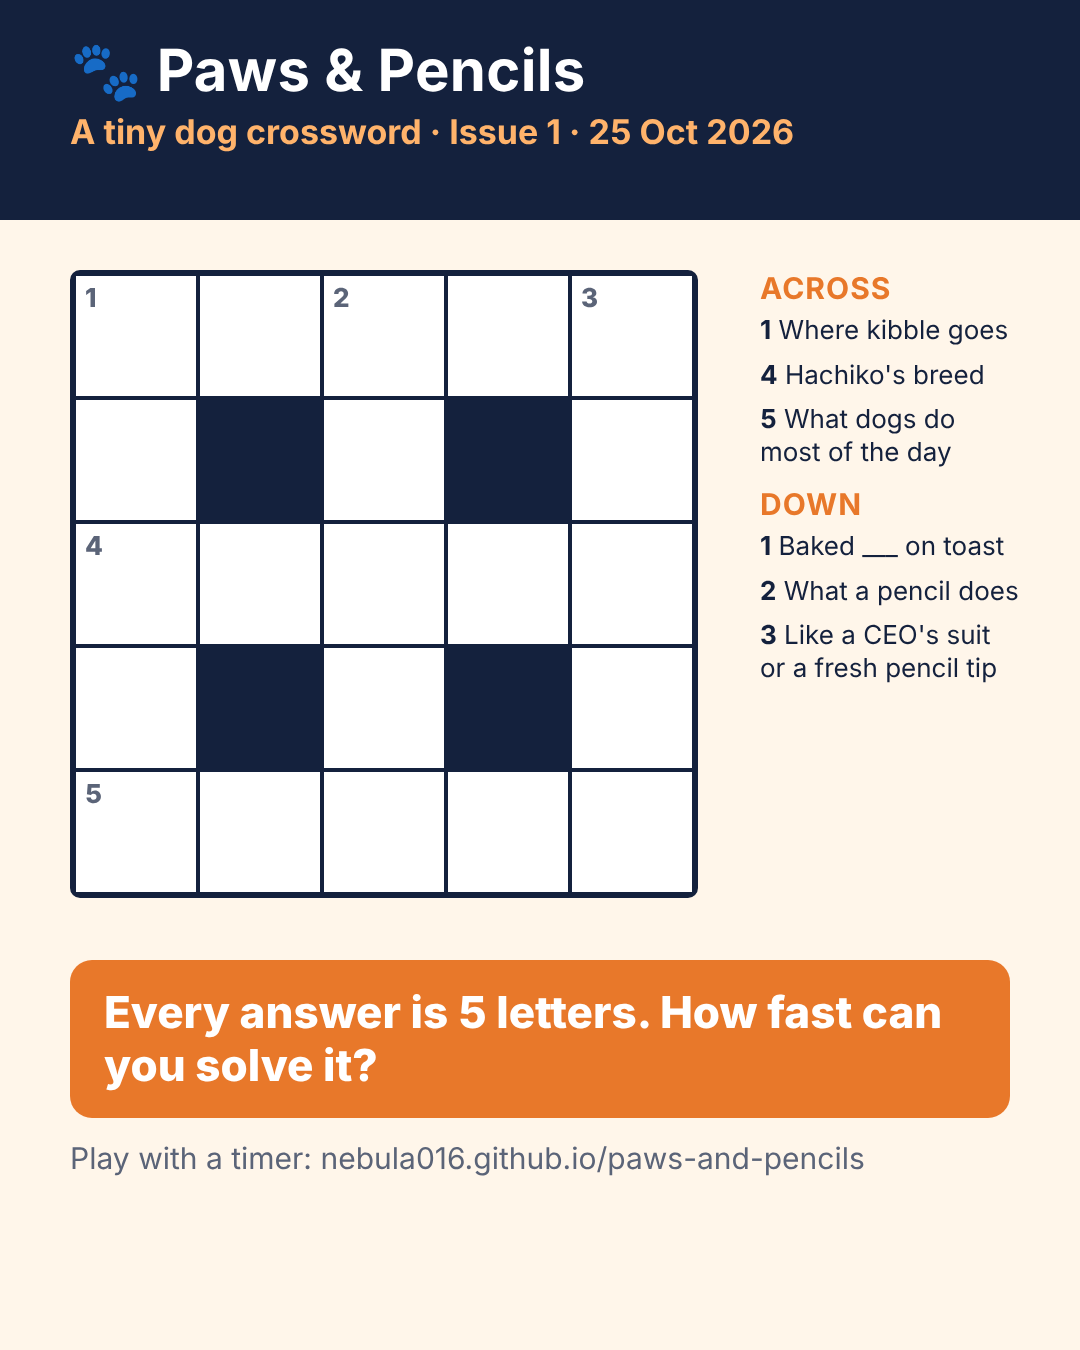
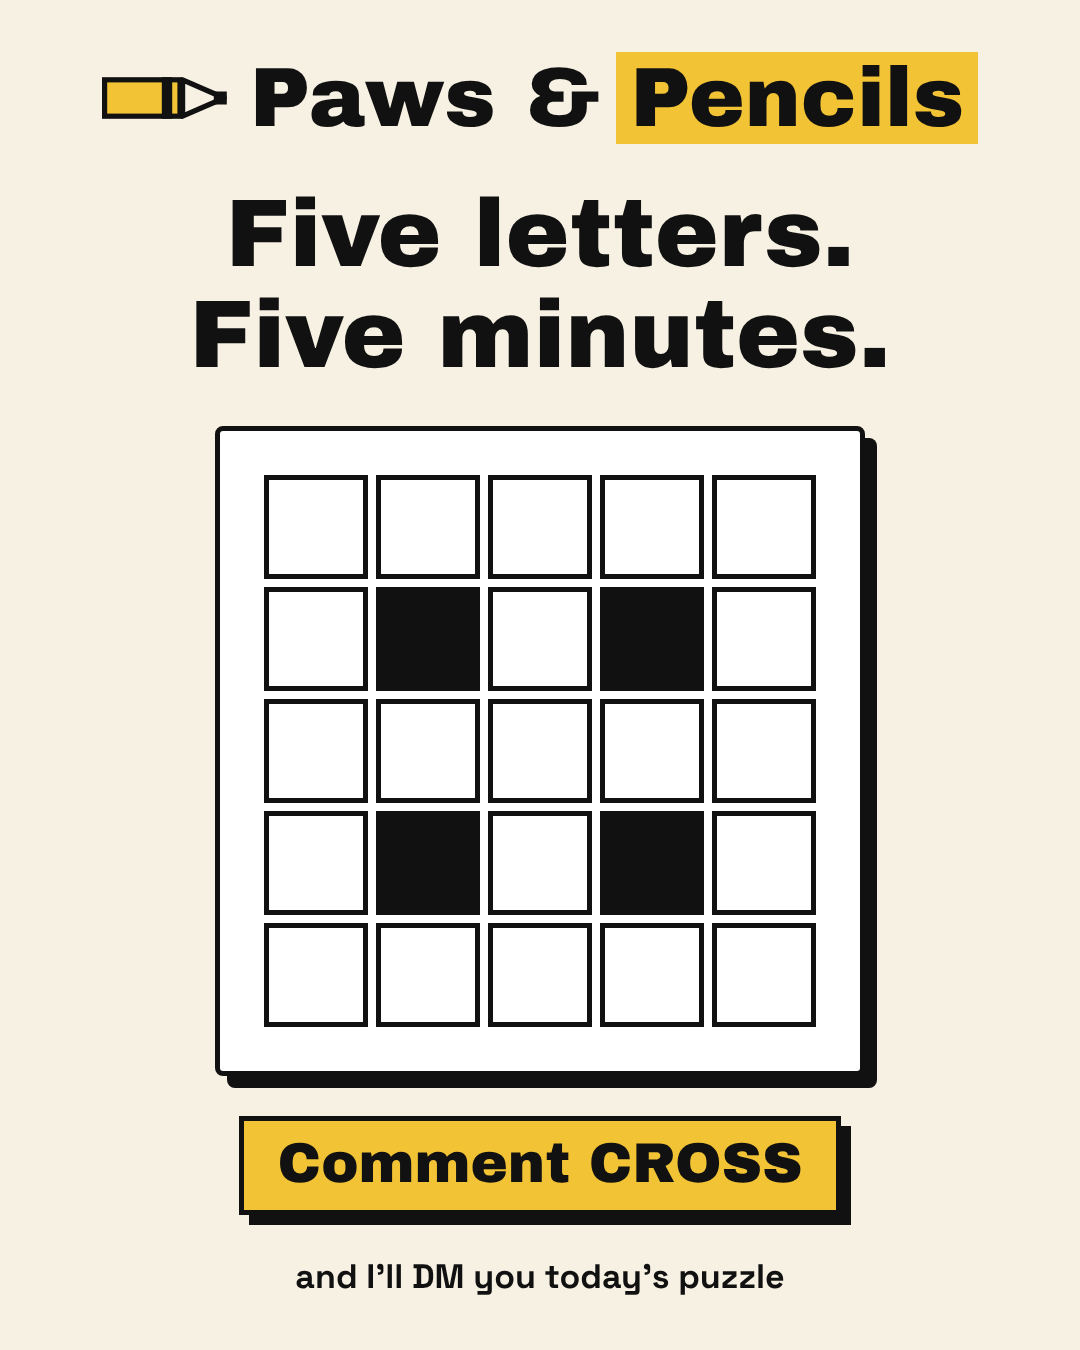
Restyle Paws & Pencils to Figma ink/paper design; new poster; bundled fonts
Claude-Session: https://claude.ai/code/session_015Txmd2HD2Qjn5wNoySTYA5

diff --git a/index.html b/index.html
@@ -9,82 +9,70 @@
 <meta property="og:description" content="A tiny dog-themed crossword. Six clues. How fast can you solve it?">
 <meta property="og:image" content="https://nebula016.github.io/paws-and-pencils/poster.png">
 <meta property="og:type" content="website">
-<meta name="theme-color" content="#14213d">
+<meta name="theme-color" content="#f7f1e3">
 <style>
+@font-face{font-family:AB;src:url(fonts/archivo-black.woff2) format("woff2");font-display:swap}
+@font-face{font-family:SG;font-weight:700;src:url(fonts/space-grotesk-700.woff2) format("woff2");font-display:swap}
+@font-face{font-family:PH;src:url(fonts/patrick-hand.woff2) format("woff2");font-display:swap}
 :root{
-  --bg:#fff6ea; --ink:#14213d; --muted:#5b6478; --accent:#e8782a; --accent-d:#c75f17;
-  --cell:#ffffff; --block:#14213d; --hl:#ffd9a8; --sel:#ffb36b; --bad:#f6c1bd; --ok:#bfe8c9;
-  --line:#14213d;
+  --bg:#f7f1e3; --ink:#111; --muted:#4a4740; --accent:#f2c335; --cell:#fff; --block:#111;
+  --hl:#fbe7a1; --sel:#f2c335; --bad:#f2b8b5; --ok:#bfe8c9; --line:#111;
+  --hard:4px 4px 0 #111; --hard-lg:8px 8px 0 #111;
 }
 *{box-sizing:border-box;-webkit-tap-highlight-color:transparent}
 html,body{margin:0;height:100%}
-body{
-  background:var(--bg);color:var(--ink);
-  font-family:ui-rounded,"SF Pro Rounded",system-ui,-apple-system,"Segoe UI",Roboto,sans-serif;
-  color-scheme:light; overflow-x:hidden;
-}
-.app{
-  min-height:100dvh;display:flex;flex-direction:column;align-items:center;
-  padding:max(8px,env(safe-area-inset-top)) 16px max(8px,env(safe-area-inset-bottom));
-  max-width:520px;margin:0 auto;gap:8px;
-}
+body{background:var(--bg);color:var(--ink);font-family:SG,system-ui,-apple-system,"Segoe UI",Roboto,sans-serif;font-weight:700;color-scheme:light;overflow-x:hidden}
+.app{min-height:100dvh;display:flex;flex-direction:column;align-items:center;padding:max(8px,env(safe-area-inset-top)) 16px max(8px,env(safe-area-inset-bottom));max-width:520px;margin:0 auto;gap:8px}
 header{width:100%;display:flex;align-items:center;justify-content:space-between;gap:8px}
 .brand{line-height:1.1}
-.brand b{display:block;font-size:22px;letter-spacing:.2px}
-.brand span{font-size:16px;color:var(--muted)}
-.timer{font-variant-numeric:tabular-nums;font-size:22px;font-weight:700;background:var(--ink);color:#fff;
-  border-radius:999px;padding:6px 14px;min-width:78px;text-align:center}
+.brand b{display:flex;align-items:center;gap:8px;font:20px AB;letter-spacing:0}
+.brand b svg{flex:none}
+.brand b .hi{background:var(--accent);padding:0 6px}
+.brand span{display:block;font-size:16px;color:var(--muted);margin-top:2px}
+.timer{font:20px AB;font-variant-numeric:tabular-nums;background:var(--accent);color:var(--ink);border:3px solid var(--ink);border-radius:4px;box-shadow:var(--hard);padding:4px 12px;min-width:78px;text-align:center}
 .board-wrap{width:100%;display:flex;justify-content:center}
-#board{
-  --s:min(calc((100vw - 32px)/5),88px,calc((100dvh - 375px)/5));
-  display:grid;grid-template-columns:repeat(5,var(--s));grid-template-rows:repeat(5,var(--s));
-  border:3px solid var(--line);background:var(--line);gap:2px;border-radius:6px;overflow:hidden;
-}
-.cell{position:relative;background:var(--cell);display:flex;align-items:center;justify-content:center;
-  font-size:calc(var(--s)*.52);font-weight:800;cursor:pointer;user-select:none;-webkit-user-select:none;text-transform:uppercase}
+#board{--s:min(calc((100vw - 44px)/5),88px,calc((100dvh - 395px)/5));display:grid;grid-template-columns:repeat(5,var(--s));grid-template-rows:repeat(5,var(--s));gap:6px;padding:0}
+.cell{position:relative;background:var(--cell);border:3px solid var(--line);border-radius:3px;display:flex;align-items:center;justify-content:center;font:calc(var(--s)*.62)/1 PH;cursor:pointer;user-select:none;-webkit-user-select:none;text-transform:uppercase}
 .cell.block{background:var(--block);cursor:default}
 .cell.hl{background:var(--hl)}
-.cell.sel{background:var(--sel)}
+.cell.sel{background:var(--sel);box-shadow:var(--hard)}
 .cell.bad{background:var(--bad)}
 .cell.ok{background:var(--ok)}
-.cell .n{position:absolute;top:3px;left:5px;font-size:max(12px,calc(var(--s)*.2));font-weight:700;color:var(--muted)}
-.cell:focus-visible{outline:3px solid var(--accent);outline-offset:-3px}
-.clue{
-  width:100%;display:flex;align-items:center;gap:8px;background:#fff;border:2px solid var(--ink);
-  border-radius:12px;padding:5px;min-height:60px;
-}
-.clue button{flex:0 0 44px;height:44px;border:0;border-radius:10px;background:var(--ink);color:#fff;font-size:22px;cursor:pointer}
-.clue p{margin:0;flex:1;font-size:18px;line-height:1.25;text-align:center}
-.clue p small{display:block;font-size:16px;color:var(--muted);font-weight:700;letter-spacing:.4px}
-.tools{width:100%;display:flex;gap:8px}
-.tools button{flex:1;height:44px;border-radius:10px;border:2px solid var(--ink);background:transparent;color:var(--ink);font-size:16px;font-weight:700;cursor:pointer}
+.cell .n{position:absolute;top:1px;left:4px;font:700 max(12px,calc(var(--s)*.2))/1.2 SG;color:var(--ink)}
+.cell:focus-visible{outline:3px solid var(--ink);outline-offset:2px}
+.clue{width:100%;display:flex;align-items:center;gap:8px;background:#fff;border:3px solid var(--ink);border-radius:6px;box-shadow:var(--hard);padding:6px;min-height:64px}
+.clue button{flex:0 0 44px;height:44px;border:3px solid var(--ink);border-radius:4px;background:var(--accent);color:var(--ink);font:22px AB;cursor:pointer;padding:0}
+.clue p{margin:0;flex:1;font:19px/1.2 AB;text-align:center}
+.clue p small{display:block;font:700 16px SG;color:var(--ink);letter-spacing:.6px;margin-bottom:2px}
+.tools{width:100%;display:flex;gap:10px}
+.tools button{flex:1;height:44px;border-radius:6px;border:3px solid var(--ink);background:#fff;box-shadow:var(--hard);color:var(--ink);font:17px AB;cursor:pointer}
+.tools button#check{background:var(--accent)}
+.tools button:active{transform:translate(2px,2px);box-shadow:2px 2px 0 #111}
 .kb{width:100%;display:flex;flex-direction:column;gap:6px}
-.kb .row{display:flex;gap:5px;justify-content:center}
-.kb button{flex:1;max-width:44px;height:44px;border:0;border-radius:8px;background:#fff;box-shadow:0 2px 0 rgba(20,33,61,.25);
-  font-size:20px;font-weight:700;color:var(--ink);cursor:pointer;touch-action:manipulation;font-family:inherit}
+.kb .row{display:flex;gap:4px;justify-content:center}
+.kb button{flex:1;max-width:44px;height:44px;border:3px solid var(--ink);border-radius:4px;background:#fff;font:700 20px SG;color:var(--ink);cursor:pointer;touch-action:manipulation;padding:0}
 .kb button.wide{max-width:64px;background:var(--ink);color:#fff}
-.kb button:active{transform:translateY(1px)}
+.kb button:active{transform:translateY(2px)}
 #msg{min-height:22px;font-size:16px;color:var(--muted);text-align:center;margin:0}
-.modal{position:fixed;inset:0;background:rgba(20,33,61,.6);display:none;align-items:center;justify-content:center;padding:16px;z-index:5}
+.modal{position:fixed;inset:0;background:rgba(17,17,17,.55);display:none;align-items:center;justify-content:center;padding:16px;z-index:5}
 .modal.show{display:flex}
-.card{background:var(--bg);border-radius:18px;padding:22px 20px;max-width:380px;width:100%;text-align:center;border:3px solid var(--ink)}
-.card h2{margin:0 0 4px;font-size:26px}
-.card .big{font-size:44px;font-weight:800;font-variant-numeric:tabular-nums;margin:6px 0}
+.card{background:#fff;border-radius:6px;padding:24px 20px;max-width:380px;width:100%;text-align:center;border:4px solid var(--ink);box-shadow:var(--hard-lg)}
+.card h2{margin:0 0 4px;font:44px AB}
+.card .big{font:64px AB;font-variant-numeric:tabular-nums;margin:6px 0}
 .card p{margin:6px 0;font-size:18px}
-.card .btns{display:flex;flex-direction:column;gap:8px;margin-top:14px}
-.card button,.card a.btn{height:48px;border-radius:12px;border:0;background:var(--accent);color:#fff;font-size:18px;font-weight:800;cursor:pointer;
-  display:flex;align-items:center;justify-content:center;text-decoration:none;font-family:inherit}
-.card a.btn.alt,.card button.alt{background:transparent;color:var(--ink);border:2px solid var(--ink)}
+.card .btns{display:flex;flex-direction:column;gap:10px;margin-top:14px}
+.card button,.card a.btn{height:50px;border-radius:6px;border:3px solid var(--ink);background:var(--accent);box-shadow:var(--hard);color:var(--ink);font:18px AB;cursor:pointer;display:flex;align-items:center;justify-content:center;text-decoration:none}
+.card a.btn.alt,.card button.alt{background:#fff}
 @keyframes shake{0%,100%{transform:translateX(0)}25%{transform:translateX(-6px)}75%{transform:translateX(6px)}}
 .shake{animation:shake .35s}
 @media (prefers-reduced-motion:reduce){.shake{animation:none}}
-@media (max-height:700px){.clue{min-height:56px}.tools button{height:40px}.card .big{font-size:36px}}
+@media (max-height:700px){.clue{min-height:56px}.tools button{height:40px}.card .big{font-size:48px}.card h2{font-size:34px}}
 </style>
 </head>
 <body>
 <div class="app">
   <header>
-    <div class="brand"><b>🐾 Paws &amp; Pencils</b><span id="sub">Issue 1 · 25 Oct 2026</span></div>
+    <div class="brand"><b><svg width="44" height="18" viewBox="0 0 100 40" aria-hidden="true"><rect x="2" y="6" width="58" height="28" fill="#f2c335" stroke="#111" stroke-width="5"/><rect x="46" y="4" width="8" height="32" fill="#111"/><path d="M62 6 L94 20 L62 34 Z" fill="#f7f1e3" stroke="#111" stroke-width="5" stroke-linejoin="round"/><rect x="86" y="15" width="10" height="10" fill="#111"/></svg><span style="margin:0;display:inline;font:inherit;color:inherit">Paws &amp;</span><span class="hi" style="margin:0;display:inline;font:inherit;color:inherit">Pencils</span></b><span id="sub">Issue 1 · 25 Oct 2026</span></div>
     <div class="timer" id="timer" aria-live="off">0:00</div>
   </header>
   <div class="board-wrap"><div id="board" role="grid" aria-label="Crossword grid"></div></div>
@@ -99,7 +87,7 @@ header{width:100%;display:flex;align-items:center;justify-content:space-between;
 
 <div class="modal" id="win" role="dialog" aria-modal="true" aria-labelledby="winTitle">
   <div class="card">
-    <h2 id="winTitle">Solved! 🐾</h2>
+    <h2 id="winTitle">Solved.</h2>
     <div class="big" id="winTime">0:00</div>
     <p>Can your friends beat that?</p>
     <div class="btns">
@@ -242,7 +230,7 @@ function showWin(){
 }
 $('close').onclick=()=>$('win').classList.remove('show');
 $('share').onclick=async()=>{
-  const text='I solved Paws & Pencils in '+fmt(state.elapsed)+' 🐾 Can you beat that?\n'+SHARE_URL;
+  const text='I solved Paws & Pencils in '+fmt(state.elapsed)+'. Can you beat that?\n'+SHARE_URL;
   try{
     if(navigator.share){await navigator.share({text});return;}
     await navigator.clipboard.writeText(text);$('shareMsg').textContent='Copied. Paste it in your story or chat.';
